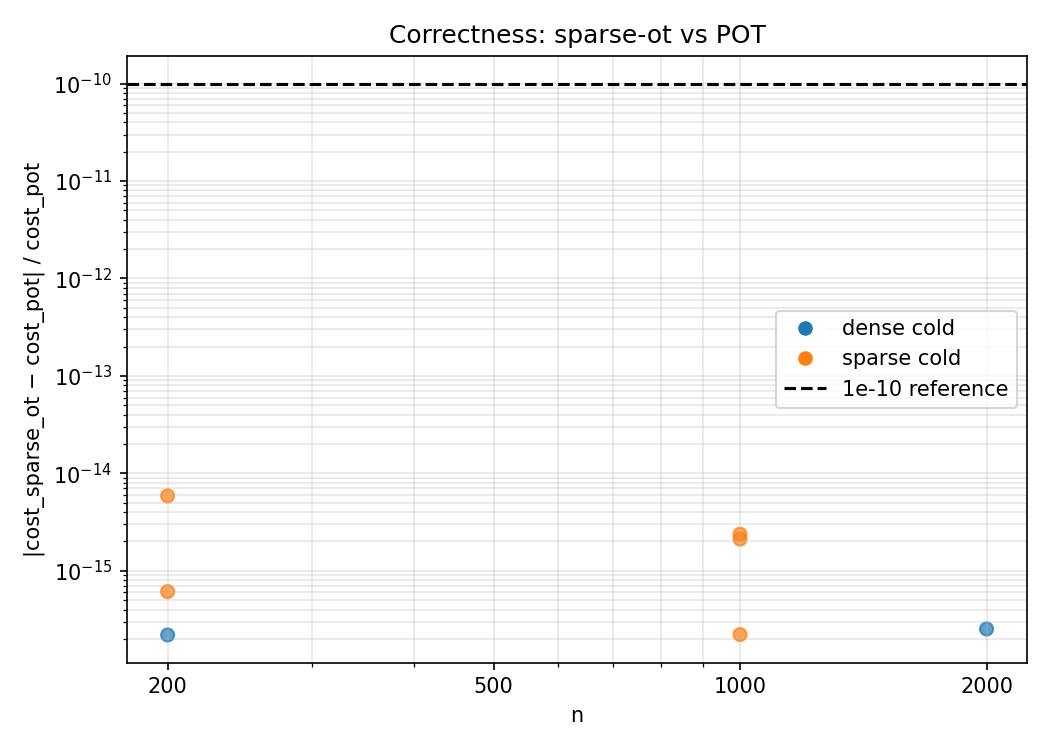
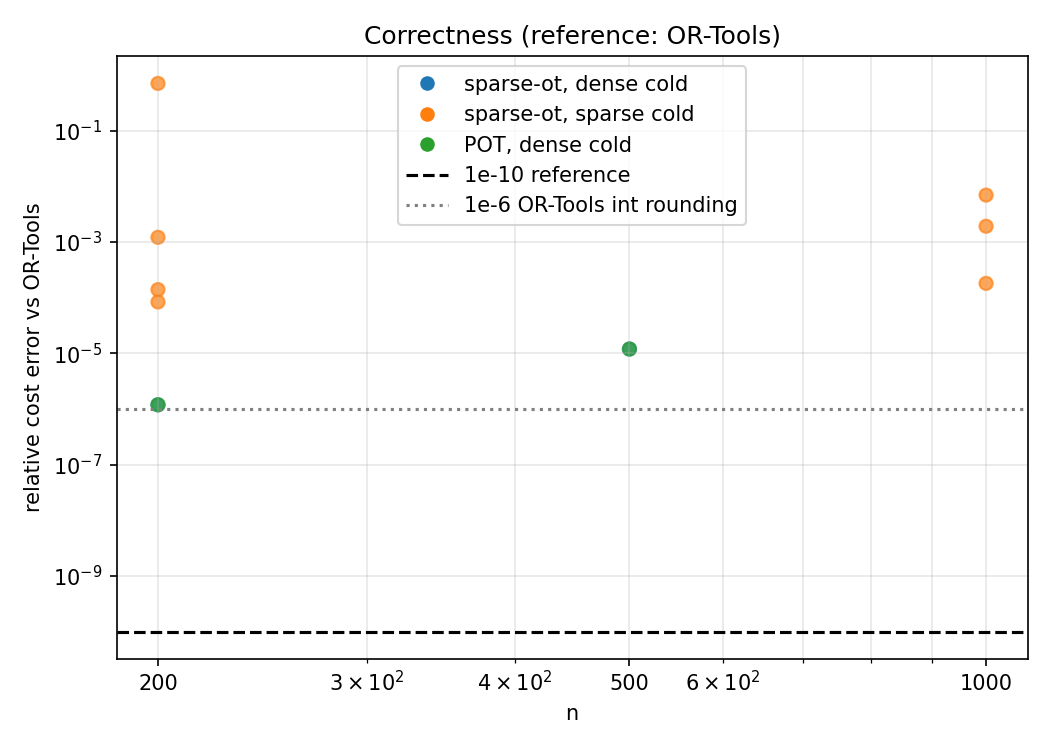
fix(bench): remove auto-densification; use OR-Tools as accuracy reference
solvers.py: remove the density > 0.5 auto-densification from
solve_sparse_ot. Converting CSR to dense with zeros on non-edges lets
the solver route mass for free through non-kNN pairs — it changes the
problem, not just the code path. The warning in emd() is kept.

report.py: fig_accuracy now uses OR-Tools as the gold reference for
all series. Three series: sparse-ot vs OR-Tools on dense cold (blue),
sparse-ot vs OR-Tools on sparse cold (orange), POT vs OR-Tools on
dense cold (green). OR-Tools int-rounding floor (~1e-6) shown as a
grey reference line.

diff --git a/benchmarks/report.py b/benchmarks/report.py
@@ -359,10 +359,12 @@ def fig_warm_speedup_perturb(cells: list, figures_dir: Path):
 # ---------------------------------------------------------------------------
 
 def fig_accuracy(cells: list, figures_dir: Path) -> None:
+    """Relative cost error: sparse-ot vs POT (dense) and vs OR-Tools (sparse)."""
     out_path = figures_dir / "accuracy.png"
 
     ot_cost: dict[tuple, float] = {}
     pot_cost: dict[tuple, float] = {}
+    ortools_cost: dict[tuple, float] = {}
 
     for c in cells:
         if c["extrapolated"] or c["cost"] is None:
@@ -372,39 +374,53 @@ def fig_accuracy(cells: list, figures_dir: Path) -> None:
             ot_cost[key] = c["cost"]
         elif c["solver"] == "pot":
             pot_cost[key] = c["cost"]
-
-    common_keys = sorted(set(ot_cost) & set(pot_cost))
+        elif c["solver"] == "ortools":
+            ortools_cost[key] = c["cost"]
 
     xs, ys, colors = [], [], []
-    for key in common_keys:
-        scenario, n, k = key
-        # Skip cells where the bench auto-densified the CSR (density k/n > 0.5).
-        # The dense path routes mass through the zero-filled non-edges, solving
-        # a different problem than the sparse solver — the cost comparison is
-        # meaningless there.
-        if scenario != "dense_cold" and k is not None and k / n > 0.5:
+
+    # sparse-ot vs OR-Tools: dense cold.
+    for key in sorted(set(ot_cost) & set(ortools_cost)):
+        if key[0] != "dense_cold":
             continue
-        co = ot_cost[key]
-        cp = pot_cost[key]
-        rel_err = abs(co - cp) / max(abs(cp), 1e-30)
-        xs.append(n)
+        rel_err = abs(ot_cost[key] - ortools_cost[key]) / max(abs(ortools_cost[key]), 1e-30)
+        xs.append(key[1])
         ys.append(rel_err)
-        colors.append("tab:blue" if scenario == "dense_cold" else "tab:orange")
+        colors.append("tab:blue")
+
+    # sparse-ot vs OR-Tools: sparse cold.
+    for key in sorted(set(ot_cost) & set(ortools_cost)):
+        if key[0] != "sparse_cold":
+            continue
+        rel_err = abs(ot_cost[key] - ortools_cost[key]) / max(abs(ortools_cost[key]), 1e-30)
+        xs.append(key[1])
+        ys.append(rel_err)
+        colors.append("tab:orange")
+
+    # POT vs OR-Tools: dense cold only.
+    for key in sorted(set(pot_cost) & set(ortools_cost)):
+        if key[0] != "dense_cold":
+            continue
+        rel_err = abs(pot_cost[key] - ortools_cost[key]) / max(abs(ortools_cost[key]), 1e-30)
+        xs.append(key[1])
+        ys.append(rel_err)
+        colors.append("tab:green")
 
     fig, ax = plt.subplots(figsize=(7, 5))
     if xs:
         ax.scatter(xs, ys, c=colors, alpha=0.7, s=40)
-        ax.axhline(1e-10, color="k", linestyle="--", label="1e-10 reference")
+        ax.axhline(1e-10, color="k", linestyle="--")
+        ax.axhline(1e-6, color="grey", linestyle=":", label="1e-6 OR-Tools int rounding")
     else:
         plt.close(fig)
-        _placeholder(out_path, "No common (scenario, n, k) for sparse_ot and pot costs")
+        _placeholder(out_path, "No cells for accuracy comparison")
         return
 
     ax.set_xscale("log")
     ax.set_yscale("log")
     ax.set_xlabel("n")
-    ax.set_ylabel("|cost_sparse_ot − cost_pot| / cost_pot")
-    ax.set_title("Correctness: sparse-ot vs POT")
+    ax.set_ylabel("relative cost error vs OR-Tools")
+    ax.set_title("Correctness (reference: OR-Tools)")
 
     unique_ns = sorted(set(xs))
     ax.set_xticks(unique_ns)
@@ -413,10 +429,13 @@ def fig_accuracy(cells: list, figures_dir: Path) -> None:
     from matplotlib.lines import Line2D
     legend_handles = [
         Line2D([0], [0], marker="o", color="w", markerfacecolor="tab:blue",
-               markersize=8, label="dense cold"),
+               markersize=8, label="sparse-ot, dense cold"),
         Line2D([0], [0], marker="o", color="w", markerfacecolor="tab:orange",
-               markersize=8, label="sparse cold"),
+               markersize=8, label="sparse-ot, sparse cold"),
+        Line2D([0], [0], marker="o", color="w", markerfacecolor="tab:green",
+               markersize=8, label="POT, dense cold"),
         Line2D([0], [0], color="k", linestyle="--", label="1e-10 reference"),
+        Line2D([0], [0], color="grey", linestyle=":", label="1e-6 OR-Tools int rounding"),
     ]
     ax.legend(handles=legend_handles)
     ax.grid(True, which="both", alpha=0.3)

diff --git a/benchmarks/solvers.py b/benchmarks/solvers.py
@@ -52,22 +52,11 @@ def _marginal_errors(G, a, b):
 
 
 def solve_sparse_ot(a, b, M, warm=None) -> SolveResult:
-    """Calls sparse_ot.emd(a, b, M, warm_start=warm, log=True). Always runs.
-
-    If M is a CSR with density > 0.5, converts to a dense ndarray inside the
-    timed region — this matches the advice emd() emits via RuntimeWarning, so
-    the benchmark measures what a correctly-using caller experiences. The
-    conversion only applies on cold solves; warm solves require CSR.
-    """
+    """Calls sparse_ot.emd(a, b, M, warm_start=warm, log=True). Always runs."""
     from sparse_ot import emd
 
     def _run():
-        M_used = M
-        if warm is None and scipy.sparse.issparse(M_used):
-            density = M_used.nnz / (M_used.shape[0] * M_used.shape[1])
-            if density > 0.5:
-                M_used = M_used.toarray()
-        return emd(a, b, M_used, warm_start=warm, log=True)
+        return emd(a, b, M, warm_start=warm, log=True)
 
     (G, info), wall_s, peak_mb = _measure(_run)
     cost = info["cost"]
